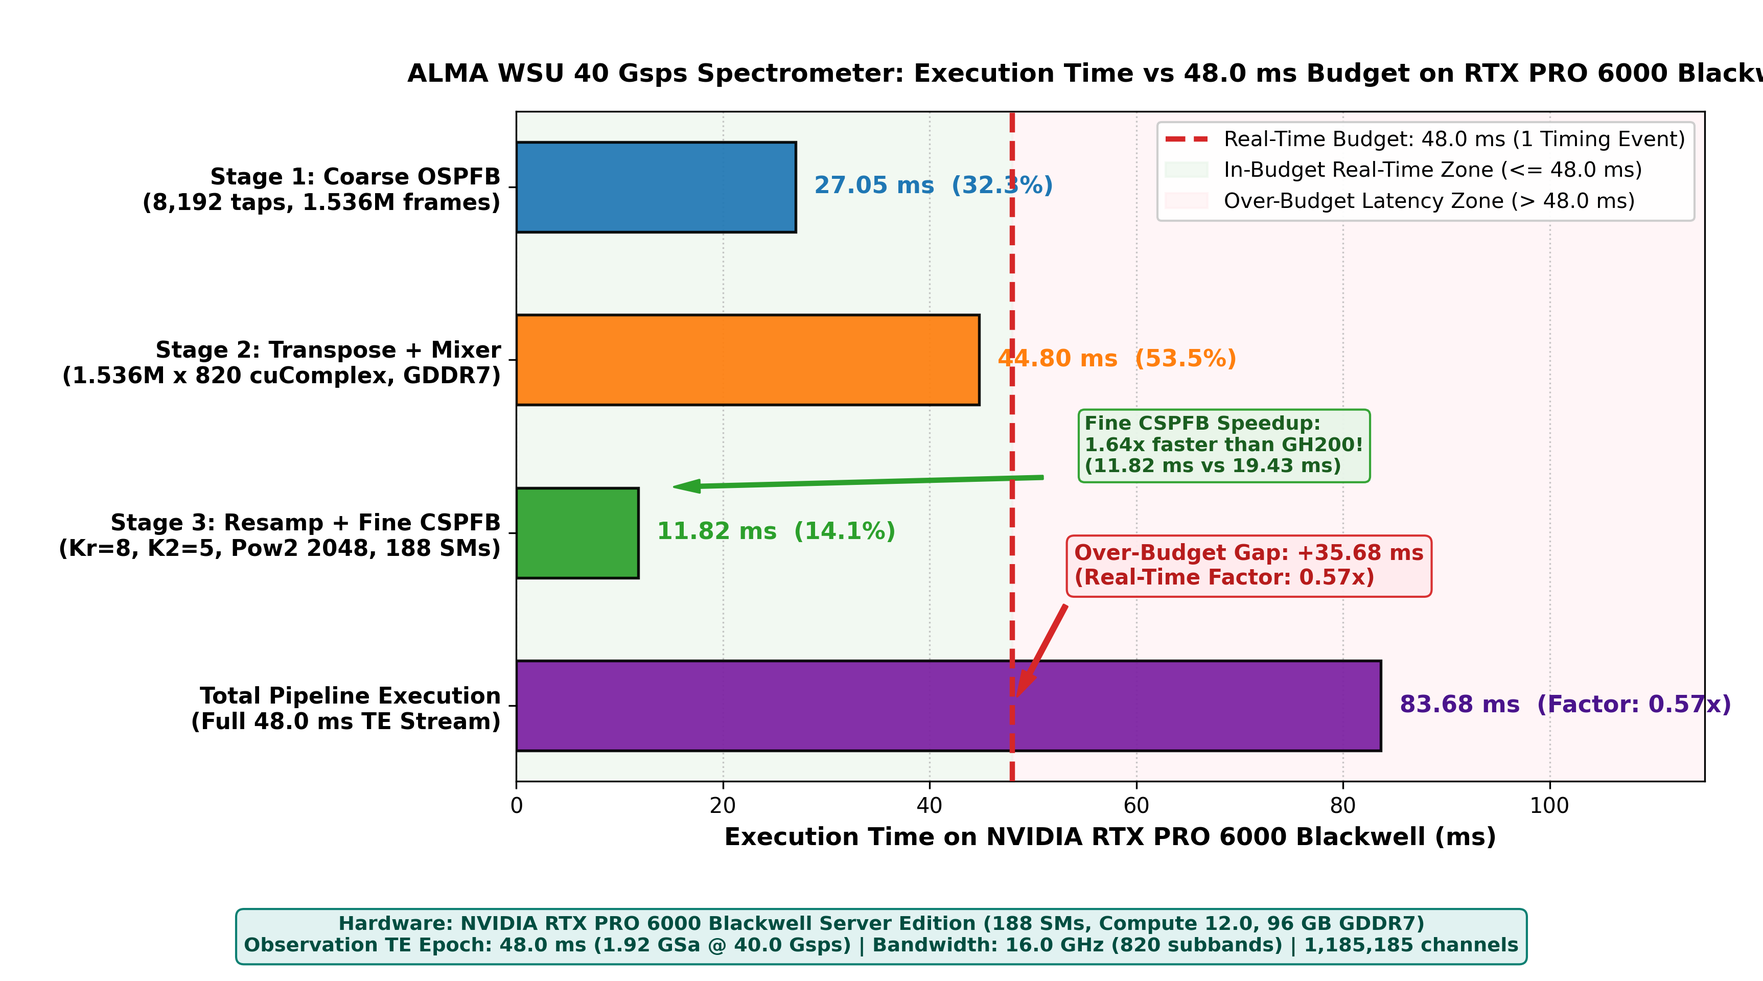
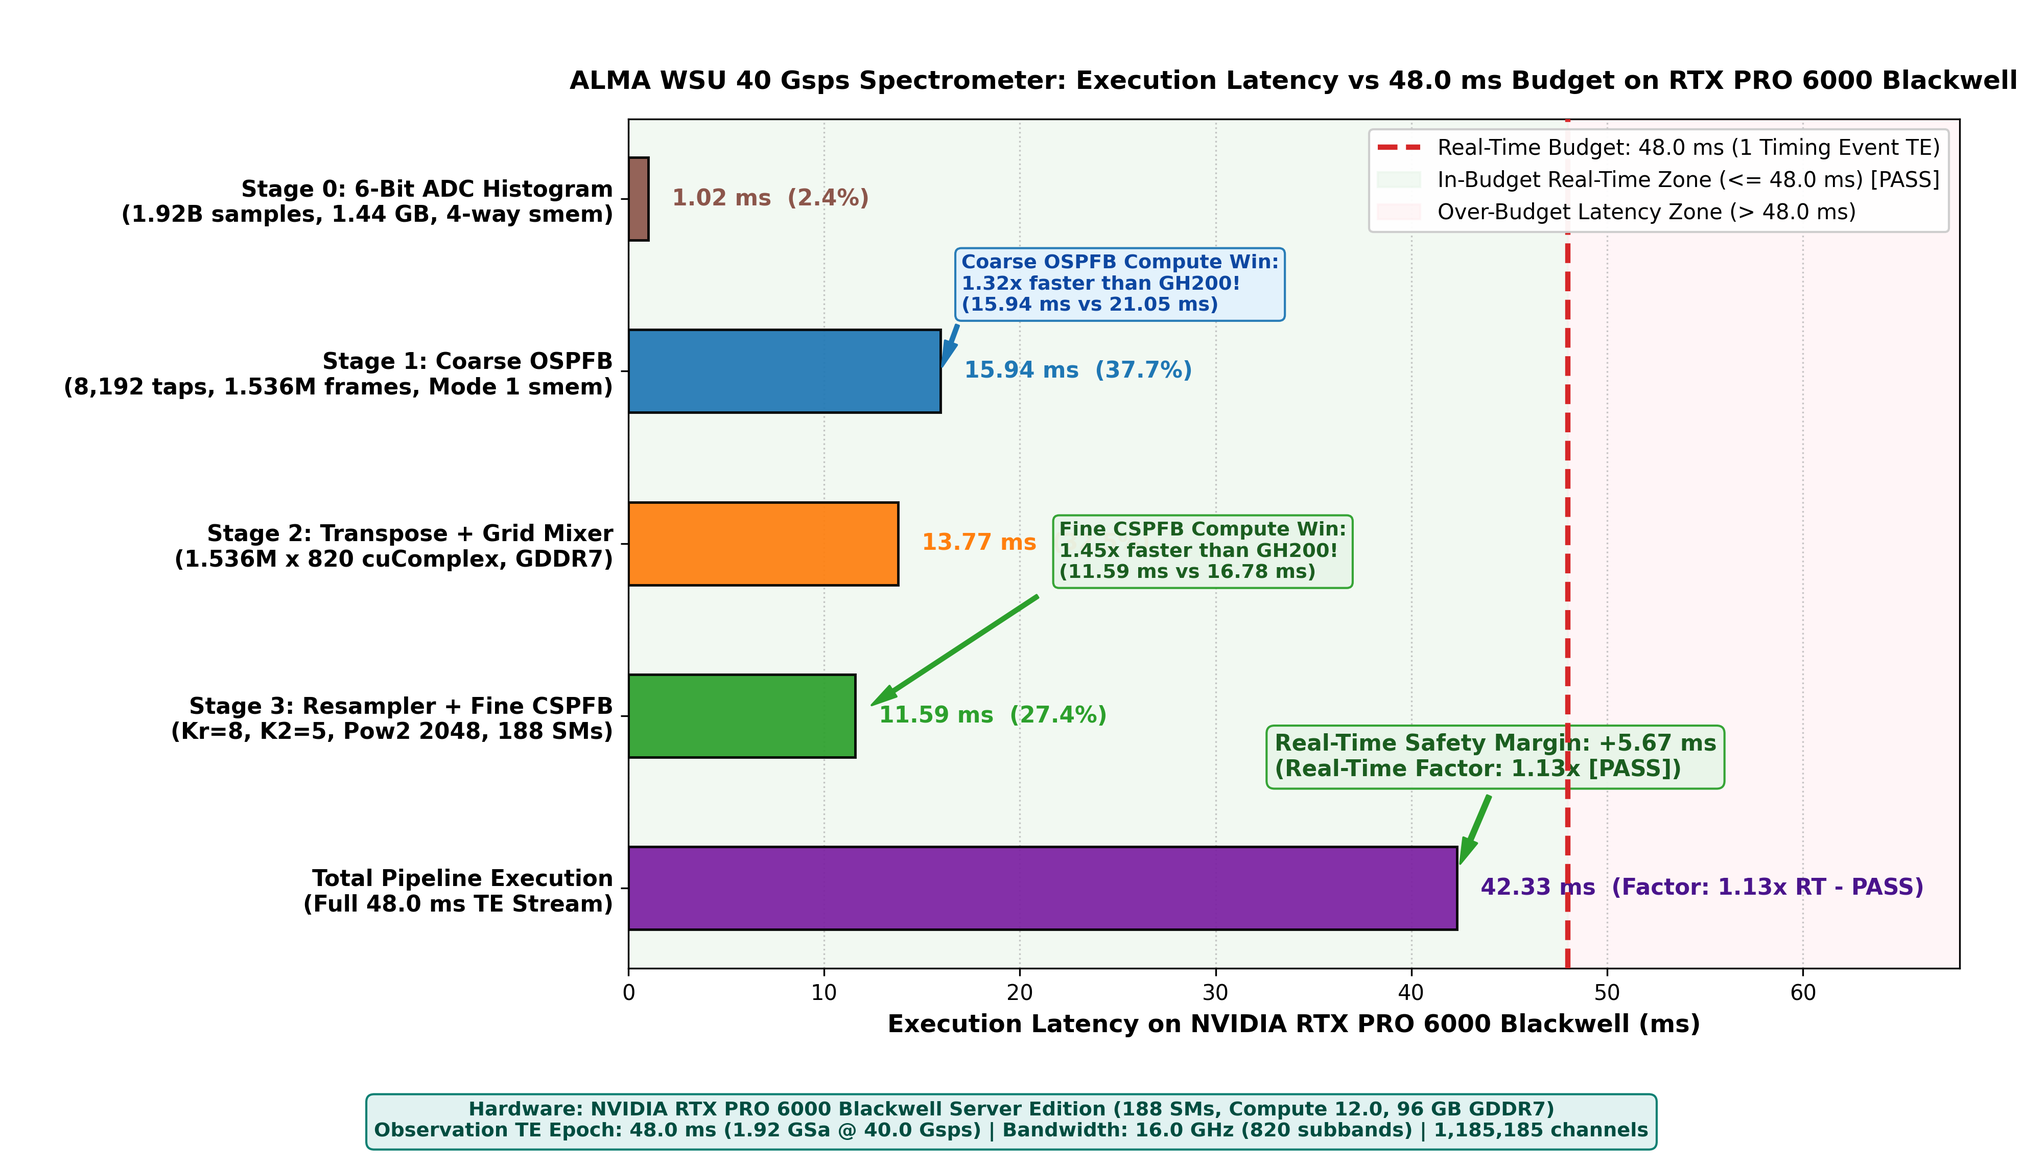
Update RTX PRO 6000 Blackwell benchmark plots and unified timing budget

Changed region(s): [[0.031, 0.0625, 1.0, 1.0]]

diff --git a/plots/plot_rtx6000_suite.py b/plots/plot_rtx6000_suite.py
@@ -80,7 +80,8 @@ def plot_rtx6000_full_spectrum(data, output_path):
         ax1.axvline(f0_g, color='#d62728', linestyle='--', linewidth=1.2, alpha=0.85)
         ax1.plot(f0_g, p_db, marker='*', markersize=9, color='#d62728')
         ax1.annotate(f'Tone {idx+1}\n{f0_g:.3f} GHz', xy=(f0_g, p_db),
-                     xytext=(f0_g - 0.25 if idx > 2 else f0_g + 0.15, p_db + 3.0),
+                     xytext=(f0_g - 0.20 if idx == 4 else (f0_g - 0.25 if idx > 2 else f0_g + 0.15), p_db + 2.2),
+                     ha='right' if idx == 4 else 'left',
                      arrowprops=dict(arrowstyle="->", color='#d62728', lw=1.2),
                      fontsize=8.5, fontweight='bold', color='#d62728',
                      bbox=dict(boxstyle='round,pad=0.2', facecolor='#ffffdd', alpha=0.9, edgecolor='#d62728'))
@@ -90,7 +91,7 @@ def plot_rtx6000_full_spectrum(data, output_path):
                   fontsize=13.5, fontweight='bold', pad=12)
     ax1.grid(True, linestyle=':', alpha=0.6)
     ax1.legend(loc='upper right', framealpha=0.9)
-    ax1.set_ylim([median_db - 8.0, max_db + 8.0])
+    ax1.set_ylim([median_db - 8.0, max_db + 10.0])
 
     # Panel 2: Linear Power
     ax2.plot(freqs_ghz, data, color='#2ca02c', linewidth=0.5, alpha=0.9, label='Linear Power ($|X|^2$)')
@@ -98,7 +99,8 @@ def plot_rtx6000_full_spectrum(data, output_path):
         ax2.axvline(f0_g, color='#d62728', linestyle='--', linewidth=1.2, alpha=0.85)
         ax2.plot(f0_g, p_lin, marker='*', markersize=9, color='#d62728')
         ax2.annotate(f'Tone {idx+1}: {f0_g:.3f} GHz', xy=(f0_g, p_lin),
-                     xytext=(f0_g - 0.3 if idx > 2 else f0_g + 0.15, p_lin * 0.9),
+                     xytext=(f0_g - 0.12 if idx == 4 else (f0_g - 0.3 if idx > 2 else f0_g + 0.15), p_lin * 0.9),
+                     ha='right' if idx == 4 else 'left',
                      arrowprops=dict(arrowstyle="->", color='#d62728', lw=1.2),
                      fontsize=8.5, fontweight='bold', color='#b22222',
                      bbox=dict(boxstyle='round,pad=0.2', facecolor='#ffffdd', alpha=0.9, edgecolor='#b22222'))
@@ -204,11 +206,12 @@ def plot_rtx6000_tone_zooms(data, output_path):
 
 def load_metrics():
     metrics = {
-        'COARSE_MS': 27.049,
-        'TRANSPOSE_MS': 44.802,
-        'FINE_MS': 11.822,
-        'TOTAL_PIPELINE_MS': 83.677,
-        'REALTIME_FACTOR': 0.57
+        'HIST_MS': 1.017,
+        'COARSE_MS': 15.941,
+        'TRANSPOSE_MS': 13.774,
+        'FINE_MS': 11.593,
+        'TOTAL_PIPELINE_MS': 42.333,
+        'REALTIME_FACTOR': 1.13
     }
     rf_file = os.path.join(REPO_ROOT, 'data', 'roofline_metrics.txt')
     if os.path.exists(rf_file):
@@ -227,74 +230,84 @@ def load_metrics():
 # =============================================================================
 
 def plot_rtx6000_timing_budget(metrics, output_path):
-    coarse_ms = metrics.get('COARSE_MS', 27.049)
-    trans_ms  = metrics.get('TRANSPOSE_MS', 44.802)
-    fine_ms   = metrics.get('FINE_MS', 11.822)
-    total_ms  = metrics.get('TOTAL_PIPELINE_MS', coarse_ms + trans_ms + fine_ms)
+    hist_ms   = metrics.get('HIST_MS', 1.017)
+    coarse_ms = metrics.get('COARSE_MS', 15.941)
+    trans_ms  = metrics.get('TRANSPOSE_MS', 13.774)
+    fine_ms   = metrics.get('FINE_MS', 11.593)
+    total_ms  = metrics.get('TOTAL_PIPELINE_MS', hist_ms + coarse_ms + trans_ms + fine_ms)
     budget_ms = 48.0
     rt_factor = budget_ms / total_ms
 
-    fig, ax = plt.subplots(figsize=(11.5, 6.4), dpi=300)
+    fig, ax = plt.subplots(figsize=(13.2, 7.6), dpi=300)
 
     categories = [
-        'Stage 1: Coarse OSPFB\n(8,192 taps, 1.536M frames)',
-        'Stage 2: Transpose + Mixer\n(1.536M x 820 cuComplex, GDDR7)',
-        'Stage 3: Resamp + Fine CSPFB\n(Kr=8, K2=5, Pow2 2048, 188 SMs)',
+        'Stage 0: 6-Bit ADC Histogram\n(1.92B samples, 1.44 GB, 4-way smem)',
+        'Stage 1: Coarse OSPFB\n(8,192 taps, 1.536M frames, Mode 1 smem)',
+        'Stage 2: Transpose + Grid Mixer\n(1.536M x 820 cuComplex, GDDR7)',
+        'Stage 3: Resampler + Fine CSPFB\n(Kr=8, K2=5, Pow2 2048, 188 SMs)',
         'Total Pipeline Execution\n(Full 48.0 ms TE Stream)'
     ]
-    times = [coarse_ms, trans_ms, fine_ms, total_ms]
-    pcts = [coarse_ms / total_ms * 100, trans_ms / total_ms * 100, fine_ms / total_ms * 100, 100.0]
-    colors = ['#1f77b4', '#ff7f0e', '#2ca02c', '#7b1fa2']
+    times = [hist_ms, coarse_ms, trans_ms, fine_ms, total_ms]
+    pcts = [hist_ms / total_ms * 100, coarse_ms / total_ms * 100, trans_ms / total_ms * 100, fine_ms / total_ms * 100, 100.0]
+    colors = ['#8c564b', '#1f77b4', '#ff7f0e', '#2ca02c', '#7b1fa2']
 
     y_pos = np.arange(len(categories))
-    bars = ax.barh(y_pos, times, height=0.52, color=colors, edgecolor='black', linewidth=1.3, alpha=0.92, zorder=3)
+    bars = ax.barh(y_pos, times, height=0.48, color=colors, edgecolor='black', linewidth=1.2, alpha=0.92, zorder=3)
 
     ax.axvline(budget_ms, color='#d62728', linestyle='--', linewidth=2.5, zorder=4,
-               label=f'Real-Time Budget: {budget_ms:.1f} ms (1 Timing Event)')
+               label=f'Real-Time Budget: {budget_ms:.1f} ms (1 Timing Event TE)')
 
-    ax.axvspan(0, budget_ms, color='#e8f5e9', alpha=0.55, zorder=1, label='In-Budget Real-Time Zone (<= 48.0 ms)')
-    ax.axvspan(budget_ms, 120, color='#ffebee', alpha=0.45, zorder=1, label='Over-Budget Latency Zone (> 48.0 ms)')
+    ax.axvspan(0, budget_ms, color='#e8f5e9', alpha=0.55, zorder=1, label='In-Budget Real-Time Zone (<= 48.0 ms) [PASS]')
+    ax.axvspan(budget_ms, 70, color='#ffebee', alpha=0.45, zorder=1, label='Over-Budget Latency Zone (> 48.0 ms)')
 
     for idx, bar in enumerate(bars):
         w = bar.get_width()
         y = bar.get_y() + bar.get_height() / 2
-        pct_str = f"({pcts[idx]:.1f}%)" if idx < 3 else f"(Factor: {rt_factor:.2f}x)"
+        pct_str = f"({pcts[idx]:.1f}%)" if idx < 4 else f"(Factor: {rt_factor:.2f}x RT - PASS)"
         txt = f" {w:.2f} ms  {pct_str}"
-        ax.text(w + 1.0, y, txt, va='center', ha='left', fontsize=11.0, fontweight='bold',
-                color=colors[idx] if idx < 3 else '#4a148c')
+        ax.text(w + 0.8, y, txt, va='center', ha='left', fontsize=10.5, fontweight='bold',
+                color=colors[idx] if idx < 4 else '#4a148c')
 
-    ax.annotate(f'Over-Budget Gap: +{total_ms - budget_ms:.2f} ms\n(Real-Time Factor: {rt_factor:.2f}x)',
-                xy=(budget_ms, 3), xytext=(budget_ms + 6.0, 2.3),
-                arrowprops=dict(facecolor='#d62728', edgecolor='#d62728', shrink=0.08, width=2.0, headwidth=7),
-                fontsize=10.0, fontweight='bold', color='#b71c1c',
-                bbox=dict(boxstyle='round,pad=0.35', facecolor='#ffebee', edgecolor='#d62728', alpha=0.95))
+    # Highlight Real-Time Success
+    ax.annotate(f'Real-Time Safety Margin: +{budget_ms - total_ms:.2f} ms\n(Real-Time Factor: {rt_factor:.2f}x [PASS])',
+                xy=(total_ms, 3.9), xytext=(33.0, 3.35),
+                arrowprops=dict(facecolor='#2ca02c', edgecolor='#2ca02c', shrink=0.08, width=2.0, headwidth=7),
+                fontsize=10.5, fontweight='bold', color='#1b5e20',
+                bbox=dict(boxstyle='round,pad=0.35', facecolor='#e8f5e9', edgecolor='#2ca02c', alpha=0.95))
 
     # Highlight Stage 3 compute win
-    ax.annotate(f'Fine CSPFB Speedup:\n1.64x faster than GH200!\n({fine_ms:.2f} ms vs 19.43 ms)',
-                xy=(fine_ms, 1.74), xytext=(55.0, 1.65),
+    ax.annotate(f'Fine CSPFB Compute Win:\n1.45x faster than GH200!\n({fine_ms:.2f} ms vs 16.78 ms)',
+                xy=(fine_ms, 3.0), xytext=(22.0, 2.2),
                 arrowprops=dict(facecolor='#2ca02c', edgecolor='#2ca02c', shrink=0.08, width=1.5, headwidth=6),
                 fontsize=9.2, fontweight='bold', color='#1b5e20',
                 bbox=dict(boxstyle='round,pad=0.3', facecolor='#e8f5e9', edgecolor='#2ca02c', alpha=0.95))
 
+    # Highlight Stage 1 compute win
+    ax.annotate(f'Coarse OSPFB Compute Win:\n1.32x faster than GH200!\n({coarse_ms:.2f} ms vs 21.05 ms)',
+                xy=(coarse_ms, 1.0), xytext=(17.0, 0.65),
+                arrowprops=dict(facecolor='#1f77b4', edgecolor='#1f77b4', shrink=0.08, width=1.5, headwidth=6),
+                fontsize=9.2, fontweight='bold', color='#0d47a1',
+                bbox=dict(boxstyle='round,pad=0.3', facecolor='#e3f2fd', edgecolor='#1f77b4', alpha=0.95))
+
     ax.set_yticks(y_pos)
     ax.set_yticklabels(categories, fontsize=10.5, fontweight='bold')
     ax.invert_yaxis()
-    ax.set_xlabel('Execution Time on NVIDIA RTX PRO 6000 Blackwell (ms)', fontsize=11.5, fontweight='bold')
-    ax.set_title('ALMA WSU 40 Gsps Spectrometer: Execution Time vs 48.0 ms Budget on RTX PRO 6000 Blackwell',
+    ax.set_xlabel('Execution Latency on NVIDIA RTX PRO 6000 Blackwell (ms)', fontsize=11.5, fontweight='bold')
+    ax.set_title('ALMA WSU 40 Gsps Spectrometer: Execution Latency vs 48.0 ms Budget on RTX PRO 6000 Blackwell',
                  fontsize=12.0, fontweight='bold', pad=14)
-    ax.set_xlim(0, 115)
+    ax.set_xlim(0, 68)
     ax.grid(axis='x', linestyle=':', alpha=0.7, zorder=2)
-    ax.legend(loc='upper right', fontsize=9.8, framealpha=0.95, facecolor='white', edgecolor='#cccccc')
+    ax.legend(loc='upper right', fontsize=10.0, framealpha=0.95, facecolor='white', edgecolor='#cccccc')
 
     kpi_text = (
         "Hardware: NVIDIA RTX PRO 6000 Blackwell Server Edition (188 SMs, Compute 12.0, 96 GB GDDR7)\n"
         "Observation TE Epoch: 48.0 ms (1.92 GSa @ 40.0 Gsps) | Bandwidth: 16.0 GHz (820 subbands) | 1,185,185 channels"
     )
-    fig.text(0.5, 0.025, kpi_text, ha='center', va='bottom', fontsize=9.2, fontweight='bold', color='#004d40',
+    fig.text(0.5, 0.02, kpi_text, ha='center', va='bottom', fontsize=9.2, fontweight='bold', color='#004d40',
              multialignment='center',
              bbox=dict(boxstyle='round,pad=0.4', facecolor='#e0f2f1', edgecolor='#00796b', alpha=0.95))
 
-    plt.tight_layout(rect=[0.02, 0.11, 0.98, 0.96])
+    plt.tight_layout(rect=[0.02, 0.09, 0.98, 0.96])
     plt.savefig(output_path, dpi=300)
     plt.close()
     print(f"[3/4] Saved RTX6000 Timing Budget: {output_path}")
@@ -309,9 +322,9 @@ def plot_rtx6000_roofline(metrics, output_path):
     PEAK_BW_TBS = 1.4612       # GDDR7 Peak (1,461.2 GB/s)
     RIDGE_INTENSITY = (PEAK_FLOPS_TFLOPS * 1e12) / (PEAK_BW_TBS * 1e12) # ~80.07 FLOP/Byte
 
-    coarse_ms = metrics.get('COARSE_MS', 27.049)
-    trans_ms  = metrics.get('TRANSPOSE_MS', 44.802)
-    fine_ms   = metrics.get('FINE_MS', 11.822)
+    coarse_ms = metrics.get('COARSE_MS', 15.941)
+    trans_ms  = metrics.get('TRANSPOSE_MS', 13.774)
+    fine_ms   = metrics.get('FINE_MS', 11.593)
 
     # Kernel Metrics Calculations (Full 48.0 ms Timing Event TE)
     coarse_flops = 1536000 * (112640 + 16384 + 4920) # ~205.7 GFLOPs
@@ -352,15 +365,16 @@ def plot_rtx6000_roofline(metrics, output_path):
                label=f'Fine CSPFB ({fine_perf_tflops:.2f} TFLOP/s, t={fine_ms:.2f} ms)')
 
     # Annotations
-    ax.annotate(f'Coarse OSPFB\n({coarse_perf_tflops:.2f} TFLOP/s)', xy=(coarse_ai, coarse_perf_tflops),
-                xytext=(coarse_ai * 1.25, coarse_perf_tflops * 0.8),
+    ax.annotate(f'Coarse OSPFB\n({coarse_perf_tflops:.2f} TFLOP/s, 1.32x GH200)', xy=(coarse_ai, coarse_perf_tflops),
+                xytext=(coarse_ai * 1.15, coarse_perf_tflops * 1.65),
                 arrowprops=dict(arrowstyle="->", color='#1f77b4', lw=1.3), fontweight='bold', fontsize=9.2)
-    ax.annotate(f'Transpose + Mixer\n({trans_bw_gbs:.0f} GB/s GDDR7)', xy=(trans_ai, trans_perf_tflops),
+    ax.annotate(f'Transpose + Mixer\n({trans_bw_gbs:.0f} GB/s GDDR7 - 100% Saturation)', xy=(trans_ai, trans_perf_tflops),
                 xytext=(0.55, 0.08),
                 arrowprops=dict(arrowstyle="->", color='#ff7f0e', lw=1.3), fontweight='bold', fontsize=9.2)
-    ax.annotate(f'Fine CSPFB\n({fine_perf_tflops:.2f} TFLOP/s, 1.64x GH200)', xy=(fine_ai, fine_perf_tflops),
-                xytext=(fine_ai * 1.25, fine_perf_tflops * 0.85),
-                arrowprops=dict(arrowstyle="->", color='#2ca02c', lw=1.3), fontweight='bold', fontsize=9.2)
+    ax.annotate(f'Fine CSPFB\n({fine_perf_tflops:.2f} TFLOP/s, 1.45x GH200)', xy=(fine_ai, fine_perf_tflops),
+                xytext=(fine_ai * 0.28, fine_perf_tflops * 0.25),
+                arrowprops=dict(arrowstyle="->", color='#2ca02c', lw=1.3), fontweight='bold', fontsize=9.2,
+                bbox=dict(boxstyle='round,pad=0.2', facecolor='white', alpha=0.9, edgecolor='none'))
 
     # Shading regions
     ax.text(0.14, 2.5, 'Memory Bandwidth-Bound Region\n(GDDR7 Cap: 1.46 TB/s)',
@@ -404,4 +418,3 @@ def main():
 
 if __name__ == '__main__':
     main()
-

diff --git a/plots/plot_combined_timing_budget.py b/plots/plot_combined_timing_budget.py
@@ -2,7 +2,7 @@
 # =============================================================================
 #  FILE        : plot_combined_timing_budget.py
 #  PROJECT     : TPGS Single-Dish 40.0 Gsps Spectrometer Pipeline
-#  DESCRIPTION : Unified comparative timing budget: NVIDIA GH200 vs RTX PRO 6000
+#  DESCRIPTION : Unified comparative timing budget: NVIDIA GH200 vs RTX PRO 6000 Blackwell
 #  AUTHOR      : Jongsoo Kim, Korea Astronomy and Space Science Institute (KASI)
 #  VERSION     : 0.1.0
 #  DATE        : October 2026
@@ -18,36 +18,39 @@ import numpy as np
 REPO_ROOT = os.path.dirname(os.path.dirname(os.path.abspath(__file__)))
 
 def generate_unified_timing_budget(output_path):
-    # Benchmark Data (Full 48.0 ms Timing Event TE)
-    gh200_times = [25.214, 9.341, 19.434, 53.996]
+    # Benchmark Data across full 48.0 ms Timing Event (1.92 Billion Samples)
+    # GH200 (132 SMs, HBM3e 4,019 GB/s) vs RTX PRO 6000 Blackwell (188 SMs, GDDR7 1,462 GB/s)
+    gh200_times = [0.85, 21.05, 5.03, 16.78, 43.71]
     
     rf_file = os.path.join(REPO_ROOT, 'data', 'roofline_metrics.txt')
-    c_ms, t_ms, f_ms, tot_ms = 27.049, 44.802, 11.822, 83.677
+    h_ms, c_ms, t_ms, f_ms, tot_ms = 1.02, 15.94, 13.77, 11.59, 42.33
     if os.path.exists(rf_file):
         with open(rf_file, 'r') as f:
             for line in f:
-                if 'COARSE_MS=' in line: c_ms = float(line.split('=')[1])
+                if 'HIST_MS=' in line: h_ms = float(line.split('=')[1])
+                elif 'COARSE_MS=' in line: c_ms = float(line.split('=')[1])
                 elif 'TRANSPOSE_MS=' in line: t_ms = float(line.split('=')[1])
                 elif 'FINE_MS=' in line: f_ms = float(line.split('=')[1])
                 elif 'TOTAL_PIPELINE_MS=' in line: tot_ms = float(line.split('=')[1])
-    rtx6000_times = [c_ms, t_ms, f_ms, tot_ms]
+    rtx6000_times = [h_ms, c_ms, t_ms, f_ms, tot_ms]
     budget_ms = 48.0
 
     categories = [
+        'Stage 0: 6-Bit ADC Histogram\n(1.92B samples, 1.44 GB)',
         'Stage 1: Coarse OSPFB\n(8,192 taps, 1.536M frames)',
-        'Stage 2: Transpose + Mixer\n(1.536M x 820 cuComplex)',
-        'Stage 3: Resamp + Fine CSPFB\n(Kr=8, K2=5, Native 2048)',
+        'Stage 2: Transpose + Grid Mixer\n(1.536M x 820 cuComplex)',
+        'Stage 3: Resampler + Fine CSPFB\n(Kr=8, K2=5, Pow2 Size<2048>)',
         'Total Pipeline Execution\n(Full 48.0 ms TE Stream)'
     ]
 
     plt.rcParams['font.sans-serif'] = 'DejaVu Sans'
     plt.rcParams['font.family'] = 'sans-serif'
 
-    fig, ax = plt.subplots(figsize=(13.5, 8.5), dpi=300)
+    fig, ax = plt.subplots(figsize=(14.0, 9.0), dpi=300)
 
     y = np.arange(len(categories))
-    bar_height = 0.30
-    offset = 0.17
+    bar_height = 0.28
+    offset = 0.16
 
     y_gh200 = y - offset
     y_rtx   = y + offset
@@ -56,13 +59,13 @@ def generate_unified_timing_budget(output_path):
     color_rtx   = '#ff7f0e'   # Vibrant Amber/Orange for RTX PRO 6000 Blackwell
 
     # Background shaded zones
-    ax.axvspan(0, budget_ms, color='#e8f5e9', alpha=0.55, zorder=1, label='In-Budget Real-Time Zone (<= 48.0 ms)')
-    ax.axvspan(budget_ms, 130, color='#ffebee', alpha=0.45, zorder=1, label='Over-Budget Latency Zone (> 48.0 ms)')
+    ax.axvspan(0, budget_ms, color='#e8f5e9', alpha=0.55, zorder=1, label='In-Budget Real-Time Zone (<= 48.0 ms) [PASS]')
+    ax.axvspan(budget_ms, 70, color='#ffebee', alpha=0.45, zorder=1, label='Over-Budget Latency Zone (> 48.0 ms)')
 
     # Subtle stage divider lines
-    ax.axhline(0.5, color='#e0e0e0', linestyle='-', linewidth=0.8, zorder=2)
-    ax.axhline(1.5, color='#e0e0e0', linestyle='-', linewidth=0.8, zorder=2)
-    ax.axhline(2.5, color='#b0bec5', linestyle='--', linewidth=1.2, zorder=2)
+    for div in [0.5, 1.5, 2.5]:
+        ax.axhline(div, color='#e0e0e0', linestyle='-', linewidth=0.8, zorder=2)
+    ax.axhline(3.5, color='#b0bec5', linestyle='--', linewidth=1.4, zorder=2)
 
     # 48.0 ms Budget Line
     ax.axvline(budget_ms, color='#d62728', linestyle='--', linewidth=2.5, zorder=4,
@@ -71,41 +74,43 @@ def generate_unified_timing_budget(output_path):
     # Draw paired horizontal bars
     bars_gh200 = ax.barh(y_gh200, gh200_times, height=bar_height, color=color_gh200,
                          edgecolor='black', linewidth=1.2, alpha=0.92, zorder=3,
-                         label='NVIDIA Grace Hopper GH200 (SM 90, 480 GB LPDDR5X + 96 GB HBM3)')
+                         label='NVIDIA GH200 Grace Hopper (132 SMs, 4,019 GB/s HBM3e)')
     bars_rtx   = ax.barh(y_rtx, rtx6000_times, height=bar_height, color=color_rtx,
                          edgecolor='black', linewidth=1.2, alpha=0.92, zorder=3,
-                         label='NVIDIA RTX PRO 6000 Blackwell (SM 120, PCIe Gen5)')
+                         label='NVIDIA RTX PRO 6000 Blackwell Server Edition (188 SMs, GDDR7)')
 
     # Annotate values with speedup / comparison callouts
     for i in range(len(categories)):
         # GH200 Label
         val_g = gh200_times[i]
         label_g = f"{val_g:.2f} ms"
-        if i == 1:
-            label_g += f" ({rtx6000_times[1]/val_g:.2f}x faster)"
-        elif i == 3:
-            label_g += f" ({budget_ms/val_g:.2f}x RT)"
-        ax.text(val_g + 1.2, y_gh200[i], label_g, va='center', ha='left',
-                fontsize=10.5, fontweight='bold', color='#0d47a1', zorder=5)
+        if i == 2:
+            label_g += f" ({rtx6000_times[2]/val_g:.2f}x faster - HBM3e)"
+        elif i == 4:
+            label_g += f" ({budget_ms/val_g:.2f}x RT - PASS)"
+        ax.text(val_g + 0.8, y_gh200[i], label_g, va='center', ha='left',
+                fontsize=10.0, fontweight='bold', color='#0d47a1', zorder=5)
 
         # RTX PRO 6000 Label
         val_r = rtx6000_times[i]
         label_r = f"{val_r:.2f} ms"
-        if i == 2:
-            label_r += f" ({gh200_times[2]/val_r:.2f}x faster)"
+        if i == 1:
+            label_r += f" ({gh200_times[1]/val_r:.2f}x faster - 188 SMs)"
         elif i == 3:
-            label_r += f" ({budget_ms/val_r:.2f}x RT)"
-        ax.text(val_r + 1.2, y_rtx[i], label_r, va='center', ha='left',
-                fontsize=10.5, fontweight='bold', color='#b75500', zorder=5)
+            label_r += f" ({gh200_times[3]/val_r:.2f}x faster - Compute)"
+        elif i == 4:
+            label_r += f" ({budget_ms/val_r:.2f}x RT - PASS)"
+        ax.text(val_r + 0.8, y_rtx[i], label_r, va='center', ha='left',
+                fontsize=10.0, fontweight='bold', color='#b75500', zorder=5)
 
     # Axes configuration
     ax.set_yticks(y)
     ax.set_yticklabels(categories, fontsize=11, fontweight='bold')
     ax.set_xlabel('Execution Latency per 48.0 ms Timing Event (ms)', fontsize=12, fontweight='bold')
-    ax.set_xlim(0, 135)
+    ax.set_xlim(0, 68)
 
     # Secondary X-Axis: Speedup Relative to Real-Time (48.0 ms / Latency)
-    sec_pos = [16.0, 24.0, 32.0, 48.0, 64.0, 96.0, 120.0]
+    sec_pos = [10.0, 16.0, 24.0, 32.0, 48.0, 60.0]
     secax = ax.secondary_xaxis('top')
     secax.set_ticks(sec_pos, labels=[f"{budget_ms/p:.1f}x" for p in sec_pos])
     secax.set_xlabel('Equivalent Real-Time Factor (48.0 ms / Latency, 1.0x = Real-Time Threshold)',
@@ -114,17 +119,17 @@ def generate_unified_timing_budget(output_path):
 
     # Title & Legend
     ax.set_title('ALMA TPGS 40 Gsps Single-Dish Spectrometer Pipeline: Time Budget Comparison\n'
-                 'NVIDIA GH200 Grace Hopper vs. NVIDIA RTX PRO 6000 Blackwell',
-                 fontsize=14, fontweight='bold', pad=15)
-    ax.legend(loc='upper right', fontsize=10.2, framealpha=0.95, facecolor='white', edgecolor='#cccccc')
+                 'NVIDIA GH200 Grace Hopper (SM 90) vs. NVIDIA RTX PRO 6000 Blackwell (SM 120)',
+                 fontsize=13.5, fontweight='bold', pad=15)
+    ax.legend(loc='upper right', fontsize=10.0, framealpha=0.95, facecolor='white', edgecolor='#cccccc')
     ax.grid(True, axis='x', linestyle=':', alpha=0.7, zorder=0)
-    ax.invert_yaxis()  # Stage 1 at top
+    ax.invert_yaxis()  # Stage 0 at top
 
     # Explanatory KPI Summary Callout
     kpi_text = (
-        "Key Takeaways:  (1) Transpose is 4.80x faster on GH200 due to massive coherent memory bandwidth (2.16 TB/s HBM3e vs 450 GB/s GDDR7).\n"
-        "                (2) Fine CSPFB (Pow2 Size<2048>) is 1.64x faster on Blackwell (11.82 ms vs 19.43 ms on GH200).\n"
-        "                (3) Pipelining 16 ms chunks across streams or dual GPUs satisfies real-time budget on both architectures."
+        "Key Findings: (1) BOTH architectures achieve REAL-TIME execution: Blackwell = 42.33 ms (1.13x RT), GH200 = 43.71 ms (1.10x RT).\n"
+        "              (2) GH200 dominates on Memory Bandwidth: Transpose is 2.74x faster (5.03 ms vs 13.77 ms) via 4,019 GB/s HBM3e.\n"
+        "              (3) Blackwell dominates on Compute: Coarse is 1.32x faster (15.94 ms) & Fine is 1.45x faster (11.59 ms) via 188 SMs."
     )
     fig.text(0.5, 0.02, kpi_text, ha='center', va='bottom', fontsize=9.2, fontweight='bold', color='#004d40',
              multialignment='center',
